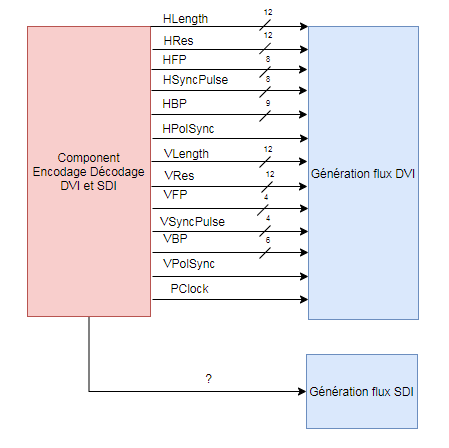
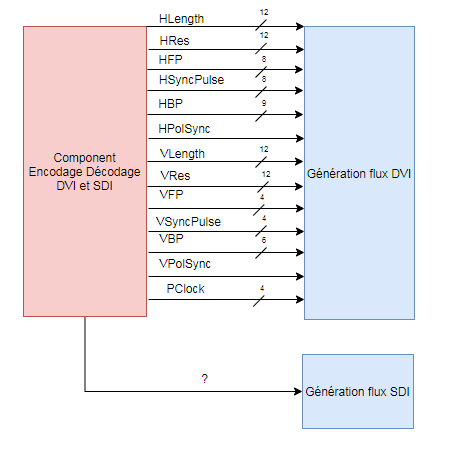
up

Changed region(s): [[0.0312, 0.0, 0.9354, 0.9688]]

diff --git a/README.md b/README.md
@@ -148,7 +148,7 @@ OCTET| NOM| DESCRIPTION
 19| VSyncPulse | Vertical sync pulse widht in pixels
 20| VBP| Vertical black porch width in pixels
 21|VPolSync| Vertical synch pulse polarity (1 = positive, 0 = negative)
-22|PixelClock| Pixel clock value
+22|PixelClock| Pixel clock value <br>1 -> 40 Mhz <br>2 -> 80 Mhz <br>3 -> 120 Mhz <br>4 -> 160 Mhz <br>
 
 
 <!--
